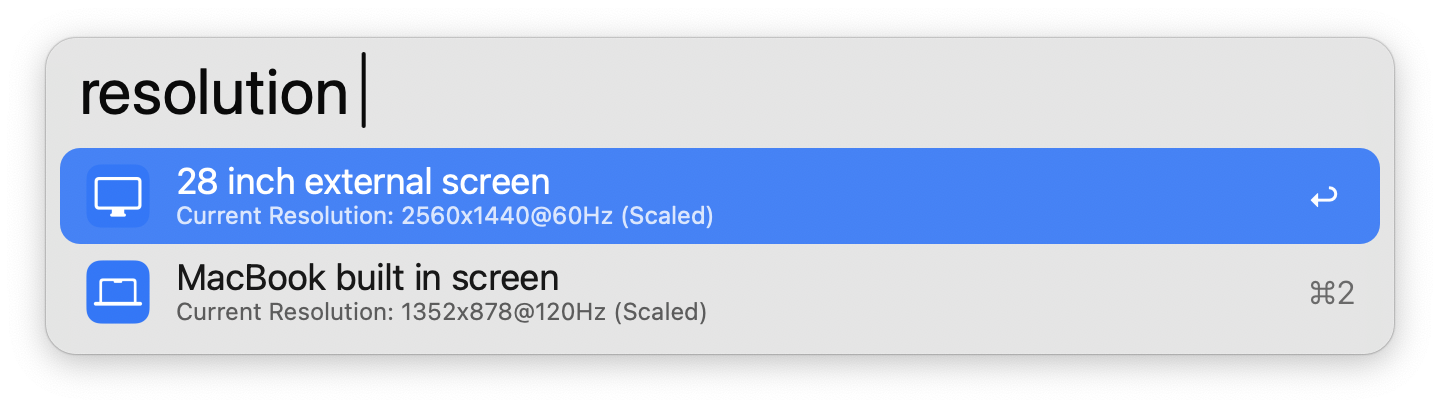
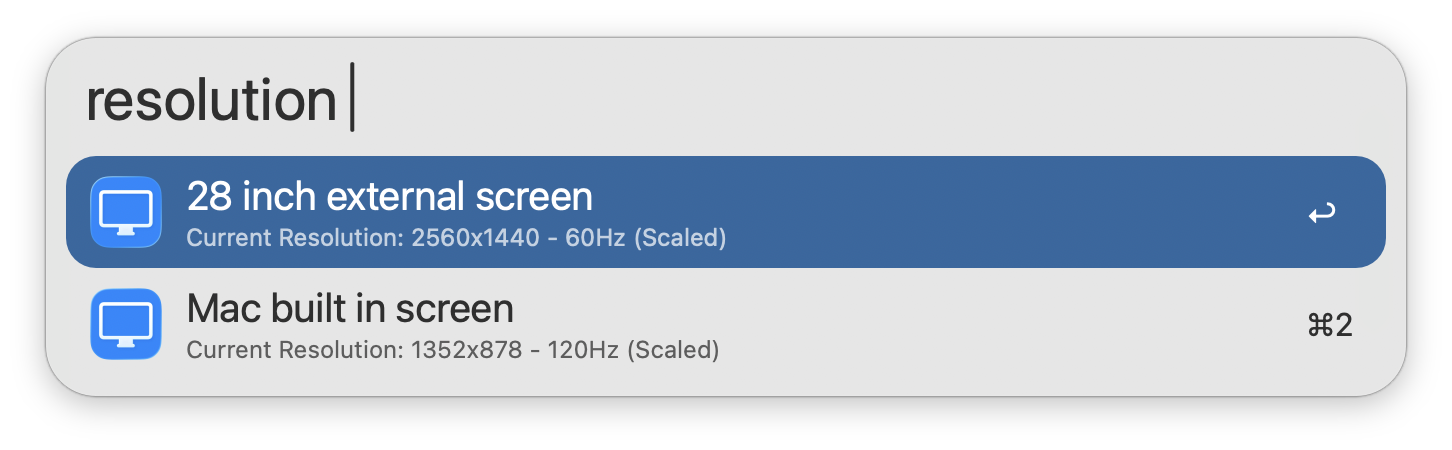
Update documentation & images

diff --git a/README.md b/README.md
@@ -10,28 +10,28 @@ This workflow requires [displayplacer](https://github.com/jakehilborn/displaypla
 
 ## Usage
 
-Search for available displays with the `resolution` keyword. Select a display to modify its resolution.
+Search for available displays via the `resolution` keyword. Select a display to change its resolution.
 
 ![Searching for displays](Workflow/images/about/keyword.png)
 
-* <kbd>↩</kbd> Show resolutions for selected display
-* <kbd>⌘</kbd><kbd>↩</kbd> Open Displays settings in System Settings
+* <kbd>↩</kbd> Show resolutions for selected display.
+* <kbd>⌘</kbd><kbd>↩</kbd> Open Displays settings in System Settings.
 
 Select a resolution to activate it, or add a new resolution to favourites. Resolutions must be favourited before they can be activated.
 
-![Searching for favourites](Workflow/images/about/favouritesView.png)
+![Searching for favourites](Workflow/images/about/favourites.png)
 
-* <kbd>↩</kbd> Activate favourited resolution
-* <kbd>⌃</kbd><kbd>↩</kbd> Delete favourited resolution
-* <kbd>⇧</kbd><kbd>↩</kbd> Return to Display Selection
+* <kbd>↩</kbd> Activate favourited resolution.
+* <kbd>⌃</kbd><kbd>↩</kbd> Delete favourited resolution.
+* <kbd>⇧</kbd><kbd>↩</kbd> Return to Display Selection.
 
 Choose from the list of available resolutions to add as a favourite. Type to filter. The current resolution is always listed first.
 
-![Searching for resolutions](Workflow/images/about/resolutionsView.png)
+![Searching for resolutions](Workflow/images/about/resolutions.png)
 
-* <kbd>↩</kbd> Add resolution to favourites
-* <kbd>⇧</kbd><kbd>↩</kbd> Return to Favourites Selection
+* <kbd>↩</kbd> Add resolution to favourites.
+* <kbd>⇧</kbd><kbd>↩</kbd> Return to Favourites Selection.
 
 Configure the [Hotkey](https://www.alfredapp.com/help/workflows/triggers/hotkey/) as a faster shortcut to change resolutions.
 
-**Note**: When adding favourites, it may be easier to first set the resolution in System Settings, then favourite the current resolution from the workflow as shown above.
+When adding favourites, it may be easier to first set the resolution in System Settings, then favourite the current resolution from the workflow as shown above.
